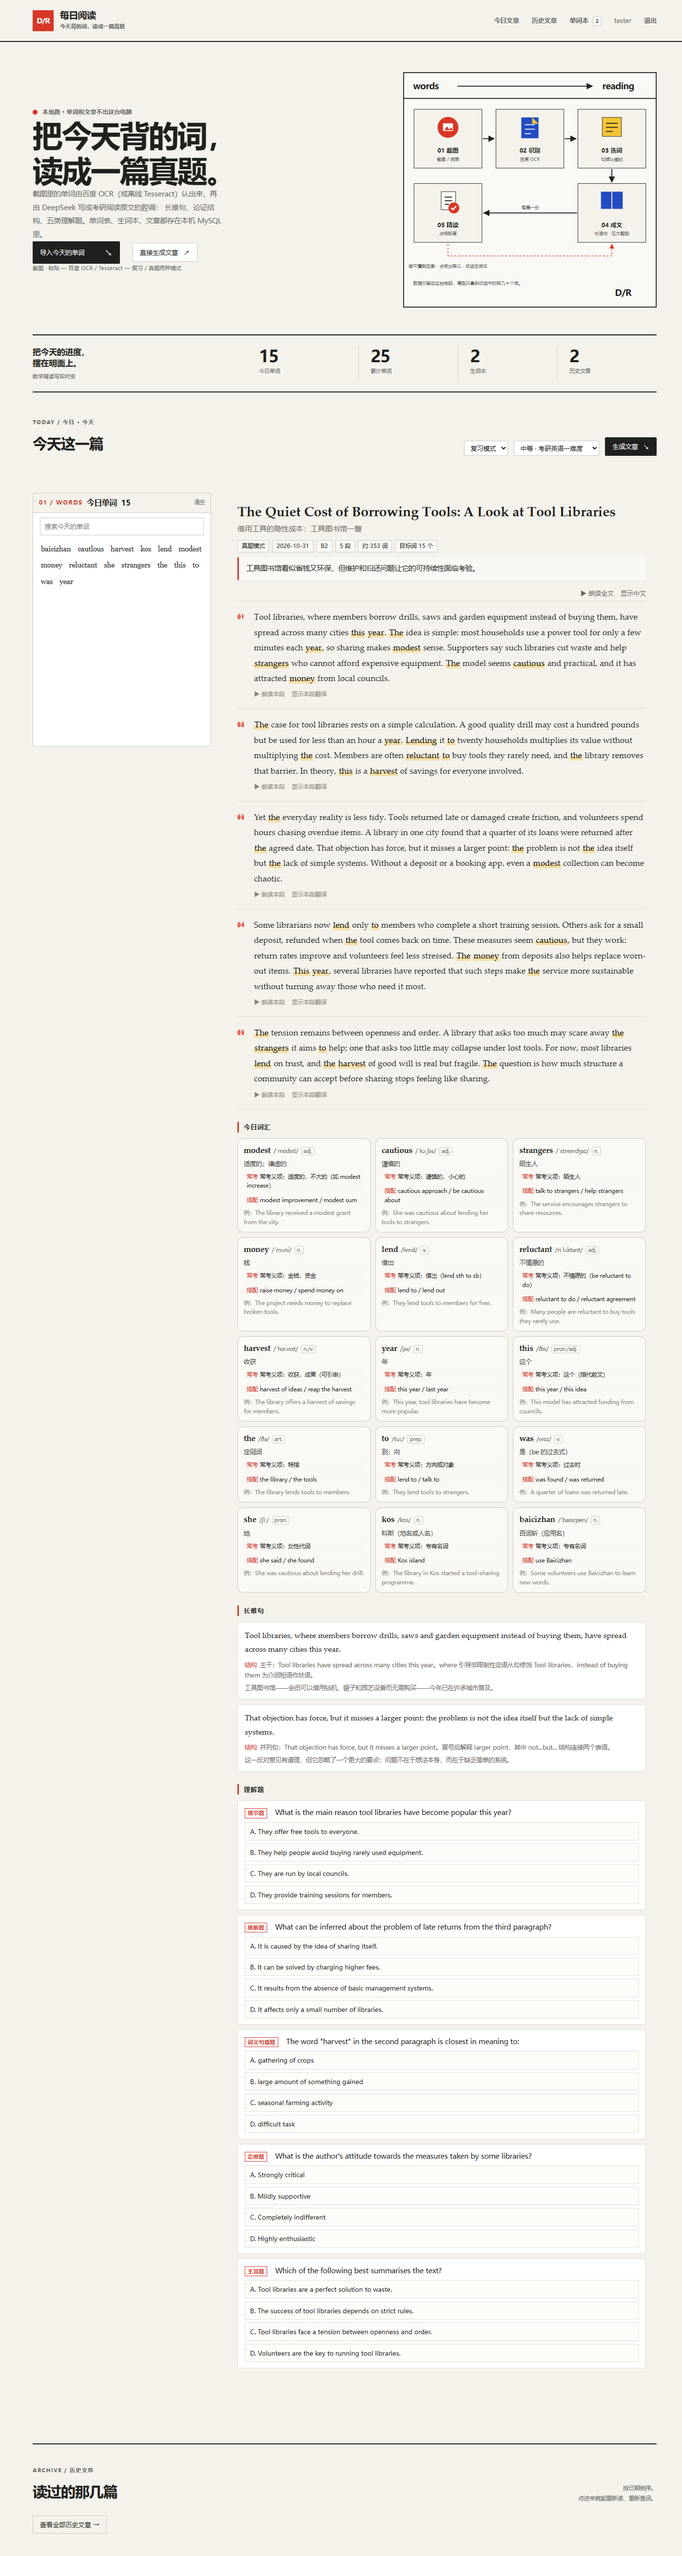
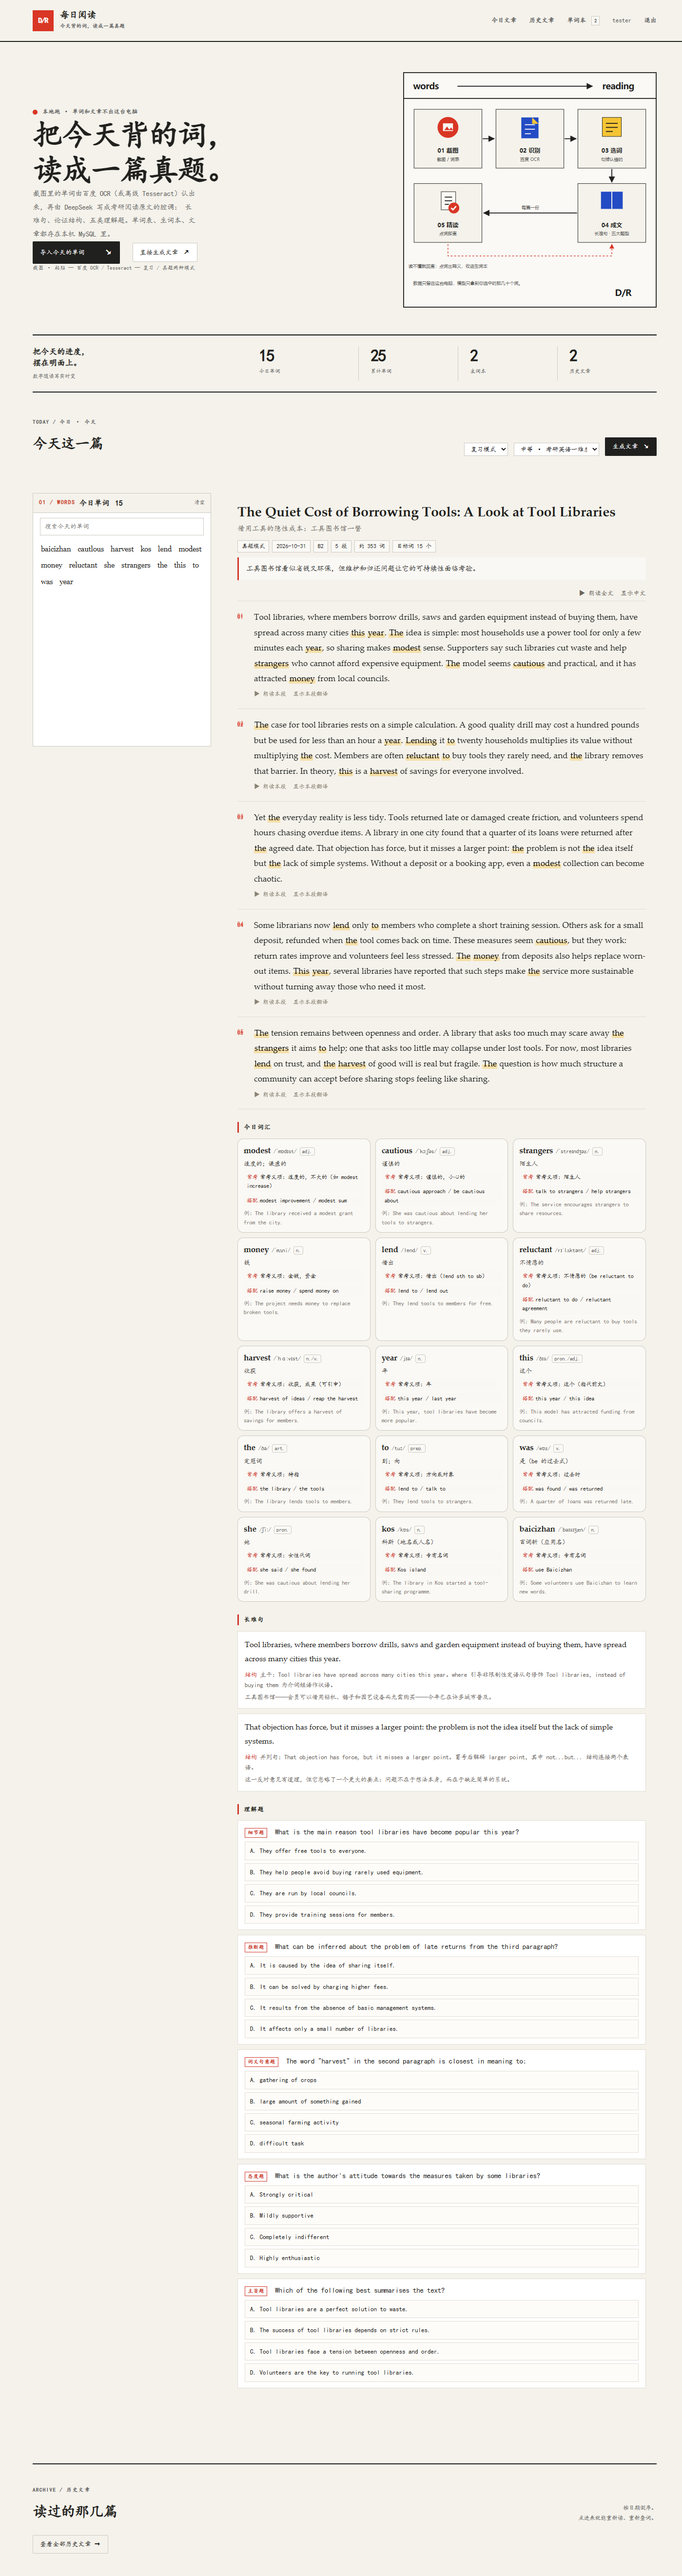
style: 中文字体改成楷体，同步文档截图

diff --git a/src/main/resources/static/css/bauhaus.css b/src/main/resources/static/css/bauhaus.css
@@ -1289,3 +1289,10 @@ main.vocab-main > section, main.archive-main > section { width: 100%; }
 .modal-card .import-drop { padding: 26px 16px; }
 
 body.modal-open { overflow: hidden; }
+
+/* 中文字体统一成楷体：西文仍用原来的无衬线/衬线，CJK 落到楷体 */
+:root {
+  --sans: "Avenir Next", "Helvetica Neue", "KaiTi", "楷体", "STKaiti", "Kaiti SC", "Noto Serif SC", serif;
+  --serif: "Iowan Old Style", "Palatino Linotype", Palatino, Georgia, "Times New Roman", "KaiTi", "楷体", "STKaiti", serif;
+}
+body, button, input, select, textarea { font-family: var(--sans); }
